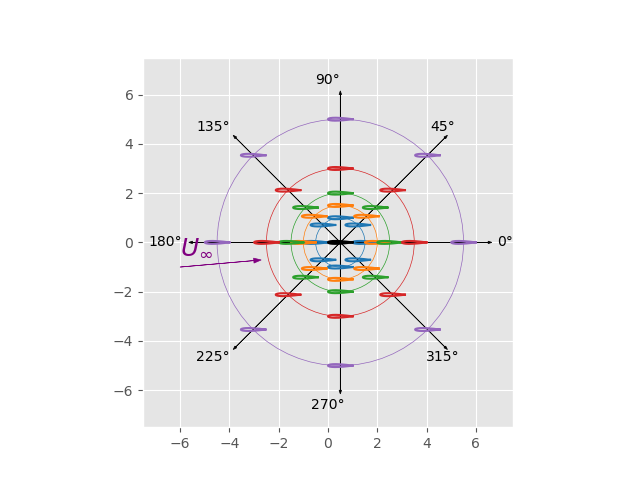
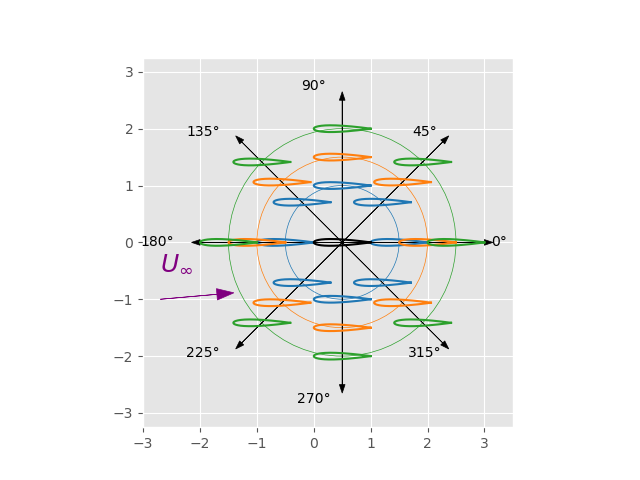
レジュメ用の図つくった

diff --git a/illustMakerForGradHappyo.py b/illustMakerForGradHappyo.py
@@ -9,7 +9,7 @@ wing_shape = np.loadtxt('naca0012_sharpTE.dat')
 
 # 半径のリスト
 # radii = [1, 1.5, 2, 3, 5]  # この半径のリストを使用者が提供する
-radii = [1, 1.5, 2, 3, 5]  # この半径のリストを使用者が提供する
+radii = [1, 1.5, 2]  # この半径のリストを使用者が提供する
 
 # 色のリスト（半径ごとに異なる色を割り当てる）
 # colors = ['blue', 'red', 'green', 'magenta', 'cyan']
@@ -45,11 +45,11 @@ plot_wing_at_coordinates([(0, 0)], origin_color)
 
 # 角度5度の矢印を描画（左下から伸びる）
 arrow_angle = math.radians(5)  # 角度をラジアンに変換
-arrow_length = 3  # 矢印の長さ
-plt.arrow(-6, -1, arrow_length * math.cos(arrow_angle), arrow_length * math.sin(arrow_angle), head_width=0.2, head_length=0.3, fc='purple', ec='purple')
+arrow_length = 1  # 矢印の長さ
+plt.arrow(-2.7, -1, arrow_length * math.cos(arrow_angle), arrow_length * math.sin(arrow_angle), head_width=0.2, head_length=0.3, fc='purple', ec='purple')
 
 # 矢印に対するラベルを追加（TeX表記）
-plt.text(-6, -0.5,   r'$U_\infty$', fontsize=18, color='purple')
+plt.text(-2.7, -0.5,   r'$U_\infty$', fontsize=18, color='purple')
 
 # プロット範囲の設定
 # plt.xlim(-7, )  # x軸の範囲
@@ -62,12 +62,12 @@ def plot_angle_mark(radius, angle_deg, label):
     end_y = radius * math.sin(angle_rad)
     plt.arrow(0.5, 0, end_x, end_y, head_width=0.1, head_length=0.15, fc='black', ec='black')
     if (angle_deg == 0):
-        plt.text(end_x * 1.2, end_y * 1.1, label, fontsize=10, ha='center', va='center')
+        plt.text(end_x * 1.3, end_y * 1.1, label, fontsize=10, ha='center', va='center')
     else : 
         plt.text(end_x * 1.1, end_y * 1.1, label, fontsize=10, ha='center', va='center')
 # 角度の目盛りを45度ごとに表示
 for angle in range(0, 360, 45):
-    plot_angle_mark(6, angle, f'{angle}°')
+    plot_angle_mark(2.5, angle, f'{angle}°')
 
 # グラフの設定
 plt.axis('equal')
@@ -75,7 +75,9 @@ plt.gca().set_aspect('equal', adjustable='box')
 # plt.figure(figsize=(10, 10))  # この数字を調整してグラフのサイズを変更
 
 # グラフを保存して表示
-plt.xlim(-7.5, 7.5)
-plt.ylim(-7.5, 7.5)
+# plt.xlim(-7.5, 7.5)
+# plt.ylim(-7.5, 7.5)
+plt.ylim(-3.25, 3.25)
+plt.xlim(-3, 3.5)
 plt.savefig('naca_positions_colored.png')
 plt.show()
